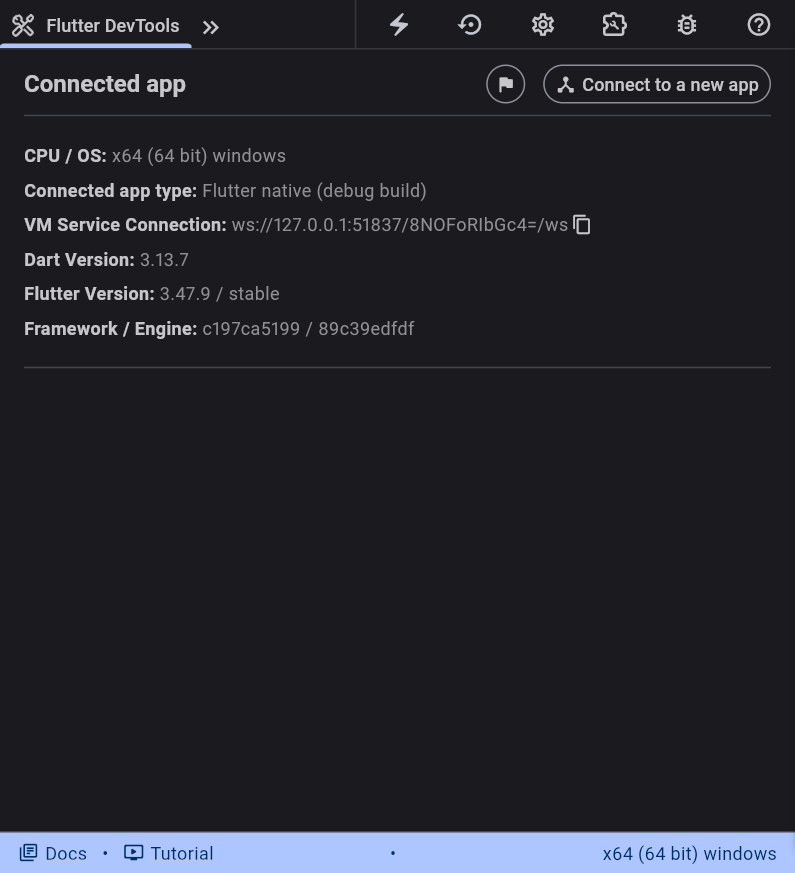
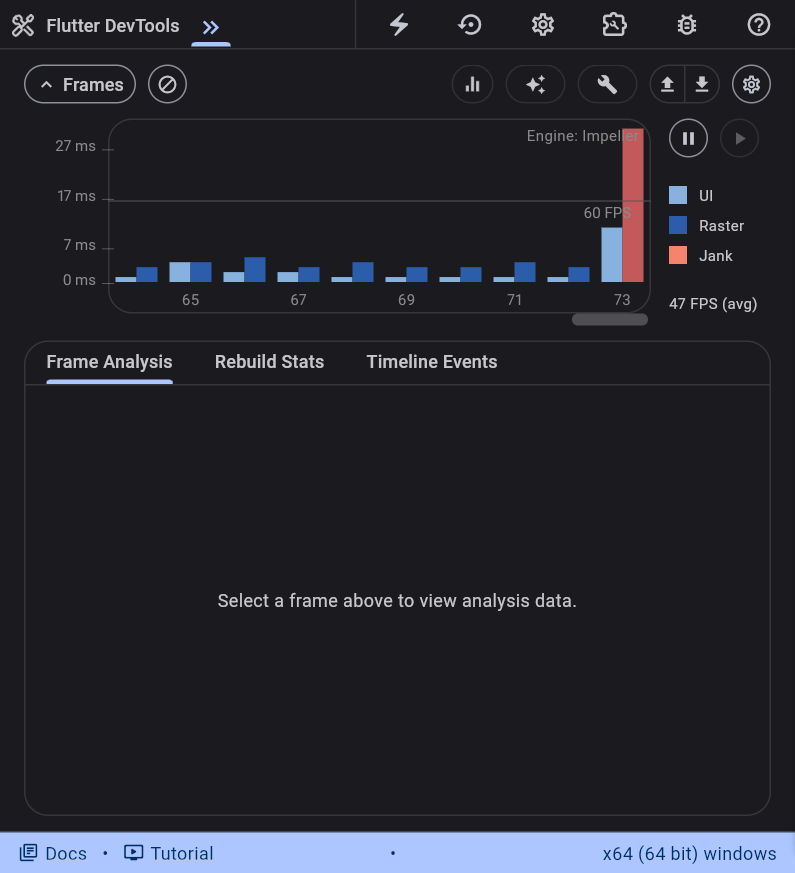
Replace DevTools screenshot with Performance screen capture

diff --git a/README.md b/README.md
@@ -166,13 +166,16 @@ the zip instead includes the app screenshots captured locally. Add them to
 - `screenshots/04_launcher_icon_preview.png` — the generated icon in a mock
   home screen (no physical phone was available for a real install shot)
 - `screenshots/05_github_repo.png` — the pushed GitHub repository page
-- `screenshots/06_devtools.png` — Flutter DevTools 2.60 connected to the running
-  UMaT Market app (Windows debug build, Dart VM service live)
+- `screenshots/06_devtools.png` — Flutter DevTools 2.60 **Performance** screen
+  connected to the running UMaT Market app (Windows debug build, Dart VM
+  service live): Flutter frames chart with UI/Raster/Jank legend, 47 FPS avg,
+  and the Frame Analysis / Rebuild Stats / Timeline Events tabs
 
 The first four are deterministic Flutter golden images from the real widgets,
 with `debugShowCheckedModeBanner: false`, so no DEBUG ribbon appears. To open
 the DevTools session yourself, run `flutter run -d windows` and paste the
-`devtools/?uri=…` URL printed by Flutter into a browser.
+`devtools/?uri=…` URL printed by Flutter into a browser, then open the
+Performance screen (`…/devtools/performance?uri=…`).
 
 ## Demo video
 
